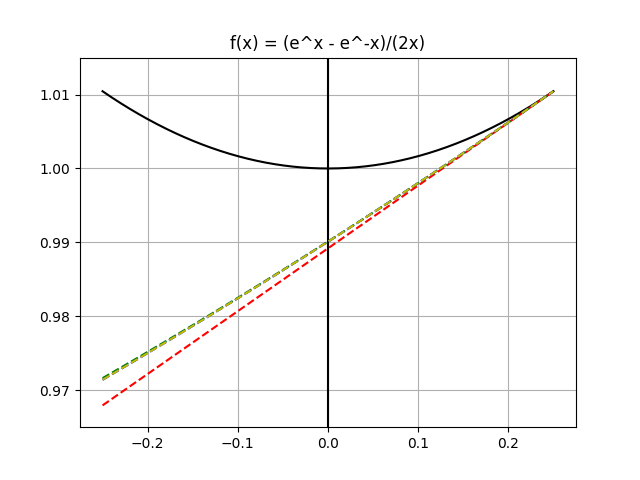
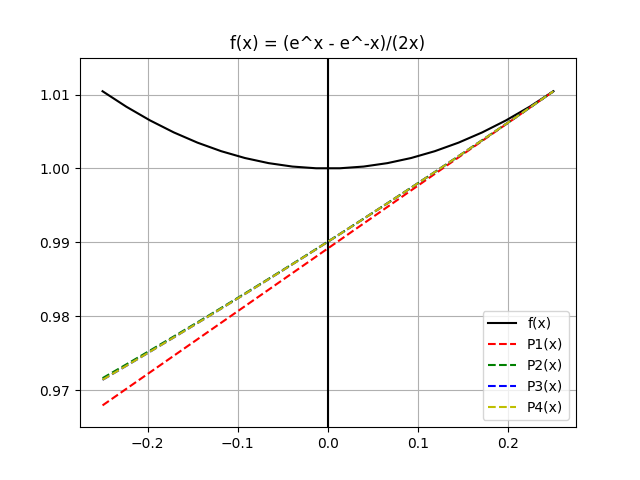
re-touched py files

Changed region(s): [[0.75, 0.6562, 0.875, 0.875]]

diff --git a/main.py b/main.py
@@ -1,0 +1,72 @@
+from math import atan, cos, log
+
+def f1(x):
+  return cos(x)
+
+def f2(x):
+  return atan(x)
+
+def f3(x):
+  return log(x)
+
+# 5.a) f(xa) = cos(1.473)
+
+fa_a = round(f1(1.473), 4)
+
+# doing some arithmetic to find
+# the lower & upper bounds
+fa_a_min = round(fa_a - 0.0005, 4)
+fa_a_max = round(fa_a + 0.0005, 4)
+
+
+min_a = round(fa_a_min - fa_a, 4)
+max_a = round(fa_a_max - fa_a, 4)
+
+print(
+  f"5.a)\n f(xa) = {fa_a}",
+  "\nerror bound: ",
+  f"{min_a} <= f(xt) - f(xa) <= {max_a}",
+  "\nRelative error bound: ",
+  f"{round(min_a/fa_a_min, 8)} <= f(xt) - f(xa) <= {round(max_a/fa_a_max, 8)}"
+)
+
+# 5.b) f(xa) = arctan(2.62)
+
+fa_b = round(f2(2.62), 3)
+
+# doing some arithmetic to find
+# the lower & upper bounds
+fa_b_min = round(fa_b - 0.005, 3)
+fa_b_max = round(fa_b + 0.005, 3)
+
+min_b = round(fa_b_min - fa_b, 3)
+max_b = round(fa_b_max - fa_b, 3)
+
+print(
+  f"5.b)\n f(xa) = {fa_b}",
+  "\nerror bound: ",
+  f"{min_b} <= f(xt) - f(xa) <= {max_b}",
+  "\nRelative error bound: ",
+  f"{round(min_b/fa_b_min, 6)} <= f(xt) - f(xa) <= {round(max_b/fa_b_max, 6)}"
+)
+
+
+# 5.c) f(xa) = ln(1.4712)
+
+fa_c = round(log(1.4712), 5)
+
+# doing some arithmetic to find
+# the lower & upper bounds
+fa_c_min = round(fa_c - 0.00005, 5)
+fa_c_max = round(fa_c + 0.00005, 5)
+
+min_c = round(fa_c_min - fa_c, 5)
+max_c = round(fa_c_max - fa_c, 5)
+
+print(
+  f"5.b)\n f(xa) = {fa_c}",
+  "\nerror bound: ",
+  f"{min_c} <= f(xt) - f(xa) <= {max_c}",
+  "\nRelative error bound: ",
+  f"{round(min_c/fa_c_min, 10)} <= f(xt) - f(xa) <= {round(max_c/fa_c_max, 10)}"
+)

diff --git a/2.2_Q6/q6_c_weight.py b/2.2_Q6/q6_c_weight.py
@@ -1,13 +1,10 @@
 import numpy as np
 from matplotlib import pyplot as plt
-from scipy.misc import derivative
-from math import cos, exp, factorial
+from math import exp, factorial
 
-### you can simply run this code by 
-### clicking run at the top for cost
-### same code as main.py
 
 """
+f(x) = (e^x - e^-x)/(2x)
 
 """
 
@@ -15,12 +12,7 @@ x = np.linspace(-0.25, 0.25, num=200)
 # a value close to 0; f(0) not defined
 a = (1/128)
 #x[int(200/2)]
-#degrees
 
-# f(x) = 1/x* integral from 0->x of 
-# integrand's domain value. 
-# uses very neat integration function
-# from the scipy library.
 def f(t):
   return (1/(2*t))*(exp(t)-exp(-t))
 
@@ -35,16 +27,15 @@ def dydx(v, degree):
   
   return (f(v+h) - f(v))/(h)
 
-# nth_tayl() is just nth_tayl2()
-# here, i multiplied each iteration
-# by a weight of 8^i where i is an
-# element of n.
-# Finds nth taylor polynomial
+# Finds nth taylor polynomial of f(x)
 def nth_tayl(n):
   if n >= 0:
     summation = np.zeros(len(x))
     for i in range(n+1):
       for j in range(len(x)):
+        # notice pow(8, i) is added as a 
+        # weight here.
+        # otherwise, P(x) is not obvious
         summation[j] += pow(8,i)*(dydx(a, i)*pow((x[j]-a), i))/factorial(i)
   return summation
 
@@ -78,7 +69,7 @@ ax.plot(x, p[3], 'y--', label='P4(x)')
 # polynomial outputs
 ax.set_ylim(ymin=0.995, ymax=1.0105)
 
-#ax.legend()
+ax.legend()
 plt.title("f(x) = (e^x - e^-x)/(2x)")
 #plt.savefig("q6_c_weight.png")
 

diff --git a/2.2_Q6/q6_b.py b/2.2_Q6/q6_b.py
@@ -1,13 +1,10 @@
 import numpy as np
 from matplotlib import pyplot as plt
-from scipy.misc import derivative
-from math import cos, exp, factorial
+from math import exp, factorial
 
-### you can simply run this code by 
-### clicking run at the top for cost
-### same code as main.py
 
 """
+f(x) = (1 - e^-x)/x
 
 """
 
@@ -17,10 +14,6 @@ a = x[int(200/2)]
 #degrees
 deg_1 = [2, 4, 6, 8]
 
-# f(x) = 1/x* integral from 0->x of 
-# integrand's domain value. 
-# uses very neat integration function
-# from the scipy library.
 def f(t):
   return (1/t)*(1-exp(-t))
 
@@ -35,7 +28,7 @@ def dydx(v, degree):
   
   return (f(v+h) - f(v))/(h)
 
-# nth_tayl() is just nth_tayl2()
+
 # Finds nth taylor polynomial
 def nth_tayl(n):
   if n >= 0:
@@ -44,6 +37,7 @@ def nth_tayl(n):
       for j in range(len(x)):
         summation[j] += (dydx(a, i)*pow((x[j]-a), i))/factorial(i)
   return summation
+
 
 # array of domain values for Pn(x)
 p = []
@@ -69,10 +63,6 @@ ax.plot(x, p[1], 'g--', label='P2(x)')
 ax.plot(x, p[2], 'b--', label='P3(x)')
 ax.plot(x, p[3], 'y--', label='P4(x)')
 
-# take note of the very small range of y
-# this allows us to see the curvature 
-# more obviously. also helps check the
-# polynomial outputs
 #ax.set_ylim(ymin=0.485, ymax=0.505)
 
 ax.legend()

diff --git a/2.2_Q6/q6_a.py b/2.2_Q6/q6_a.py
@@ -1,31 +1,24 @@
 import numpy as np
 from matplotlib import pyplot as plt
-import scipy.integrate as integrate
-from math import cos, exp, factorial
+from math import exp, factorial
 
-### you can simply run this code by 
-### clicking run at the top for cost
-### same code as main.py
 
 """
+f(x) = (e^x - 1)/x
 
 """
 
 x = np.linspace(-1, 1, num=200)
 # a value close to 0; f(0) not defined
 a = x[int(200/2)]
-#degrees
-deg_1 = [2, 4, 6, 8]
 
-# f(x) = 1/x* integral from 0->x of 
-# integrand's domain value. 
-# uses very neat integration function
-# from the scipy library.
+
+# callable function of x
 def f(t):
   return (1/t)*(exp(t)-1)
 
   
-# generalized derivative: (dy/dx)^n?
+# generalized derivative: (dy/dx)^n
 def dydx(v, degree):
   h = exp(-5)
   if degree == 0: 
@@ -68,12 +61,6 @@ ax.plot(x, p[0], 'r--', label='P1(x)')
 ax.plot(x, p[1], 'g--', label='P2(x)')
 ax.plot(x, p[2], 'b--', label='P3(x)')
 ax.plot(x, p[3], 'y--', label='P4(x)')
-
-# take note of the very small range of y
-# this allows us to see the curvature 
-# more obviously. also helps check the
-# polynomial outputs
-#ax.set_ylim(ymin=0.485, ymax=0.505)
 
 ax.legend()
 plt.title("f(x) = (e^x - 1)/x")

diff --git a/2.2_Q6/q6_c.py b/2.2_Q6/q6_c.py
@@ -1,26 +1,16 @@
 import numpy as np
 from matplotlib import pyplot as plt
-from scipy.misc import derivative
-from math import cos, exp, factorial
-
-### you can simply run this code by 
-### clicking run at the top for cost
-### same code as main.py
+from math import exp, factorial
 
 """
-
+f(x) = (e^x - e^-x)/(2x)
 """
 
 x = np.linspace(-0.25, 0.25, num=20)
 # a value close to 0; f(0) not defined
 a = 0.25
-#x[int(200/2)]
-#degrees
 
-# f(x) = 1/x* integral from 0->x of 
-# integrand's domain value. 
-# uses very neat integration function
-# from the scipy library.
+
 def f(t):
   return (1/(2*t))*(exp(t)-exp(-t))
 
@@ -35,7 +25,6 @@ def dydx(v, degree):
   
   return (f(v+h) - f(v))/(h)
 
-# nth_tayl() is just nth_tayl2()
 # Finds nth taylor polynomial
 def nth_tayl(n):
   if n >= 0:
@@ -75,7 +64,7 @@ ax.plot(x, p[3], 'y--', label='P4(x)')
 # polynomial outputs
 ax.set_ylim(ymin=0.965, ymax=1.015)
 
-#ax.legend()
+ax.legend()
 plt.title("f(x) = (e^x - e^-x)/(2x)")
 #plt.savefig("q6_c.png")
 

diff --git a/2.2_Q4/q4.py b/2.2_Q4/q4.py
@@ -5,7 +5,7 @@ import numpy as np
 
 x = np.linspace(-1.5, 1.5, num=200)
 
-
+# creates callable f(x)
 def f(t):
   return (exp(-1*pow(t,2)))
 
@@ -15,15 +15,17 @@ def t_approx(t):
 fx = [f(i) for i in x]
 px = [t_approx(i) for i in x]
 
+# xt-xa 
 error = [abs(f - p) for f, p in zip(fx, px)]
-
+# (xt-xa)/xt
 rel_error = [ abs(f - p)/f for f, p in zip(fx, px)]
-
 
 print(fx, px, sep='\n')
 
 fig, ax = plt.subplots(2)
 
+# ax[0] has the error plots
+# ax[1] is the P(x) and f(x)
 ax[0].set_aspect('equal')
 ax[0].grid(True, which='both')
 ax[1].set_aspect('equal')

diff --git a/2.3_Q5/q5_a-c.py b/2.3_Q5/q5_a-c.py
@@ -1,4 +1,5 @@
 from math import atan, cos, log
+## Same code as 2.3_Q5
 
 def f1(x):
   return cos(x)
